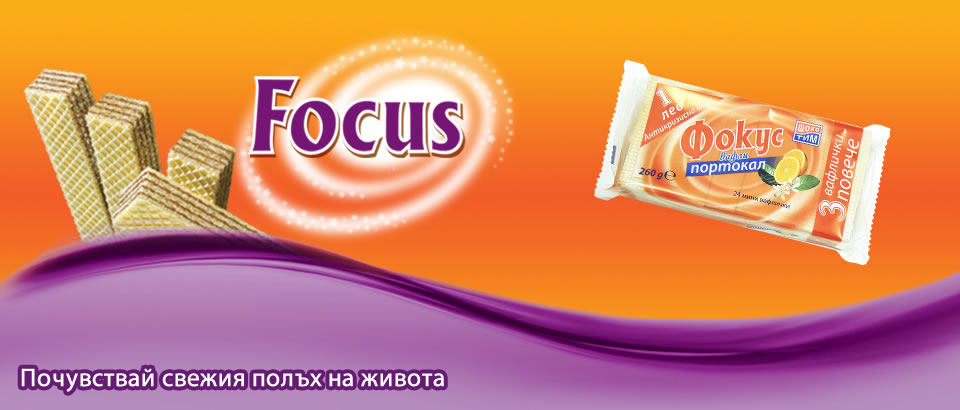
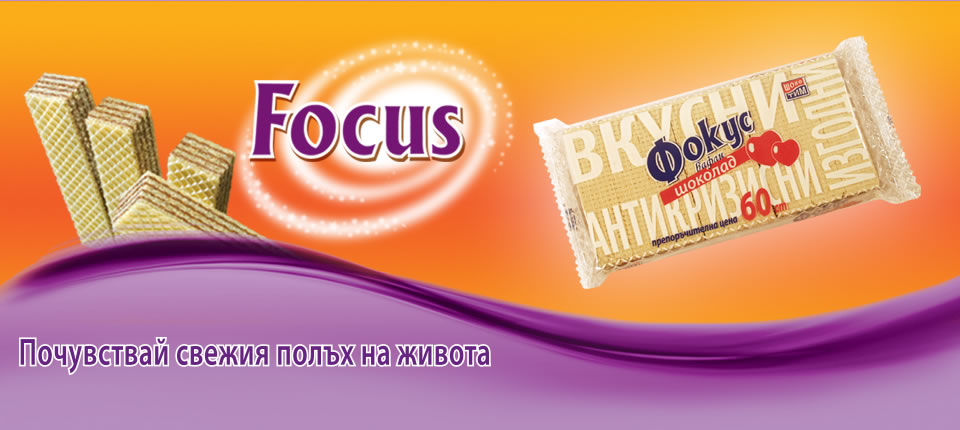
Slider images changed

diff --git a/en/about.html b/en/about.html
@@ -49,6 +49,7 @@
             <img src="../images/slide7.jpg" alt="" />
             <img src="../images/slide8.jpg" alt="" />
             <img src="../images/slide9.jpg" alt="" />
+            <img src="../images/slide10.jpg" alt="" />
         </div>
     </div>
     <!-- End Slider -->

diff --git a/en/contact.html b/en/contact.html
@@ -49,6 +49,7 @@
             <img src="../images/slide7.jpg" alt="" />
             <img src="../images/slide8.jpg" alt="" />
             <img src="../images/slide9.jpg" alt="" />
+            <img src="../images/slide10.jpg" alt="" />
         </div>
     </div>
     <!-- End Slider -->

diff --git a/en/products.html b/en/products.html
@@ -51,6 +51,7 @@
             <img src="../images/slide7.jpg" alt="" />
             <img src="../images/slide8.jpg" alt="" />
             <img src="../images/slide9.jpg" alt="" />
+            <img src="../images/slide10.jpg" alt="" />
         </div>
     </div>
     <!-- End Slider -->

diff --git a/about.html b/about.html
@@ -49,6 +49,7 @@
             <img src="images/slide7.jpg" alt="" />
             <img src="images/slide8.jpg" alt="" />
             <img src="images/slide9.jpg" alt="" />
+            <img src="images/slide10.jpg" alt="" />
         </div>
     </div>
     <!-- End Slider -->

diff --git a/contact.html b/contact.html
@@ -49,6 +49,7 @@
             <img src="images/slide7.jpg" alt="" />
             <img src="images/slide8.jpg" alt="" />
             <img src="images/slide9.jpg" alt="" />
+            <img src="images/slide10.jpg" alt="" />
         </div>
     </div>
     <!-- End Slider -->

diff --git a/index.html b/index.html
@@ -51,6 +51,7 @@
             <img src="images/slide7.jpg" alt="" />
             <img src="images/slide8.jpg" alt="" />
             <img src="images/slide9.jpg" alt="" />
+            <img src="images/slide10.jpg" alt="" />
         </div>
     </div>
     <!-- End Slider -->

diff --git a/products.html b/products.html
@@ -51,6 +51,7 @@
             <img src="images/slide7.jpg" alt="" />
             <img src="images/slide8.jpg" alt="" />
             <img src="images/slide9.jpg" alt="" />
+            <img src="images/slide10.jpg" alt="" />
         </div>
     </div>
     <!-- End Slider -->
